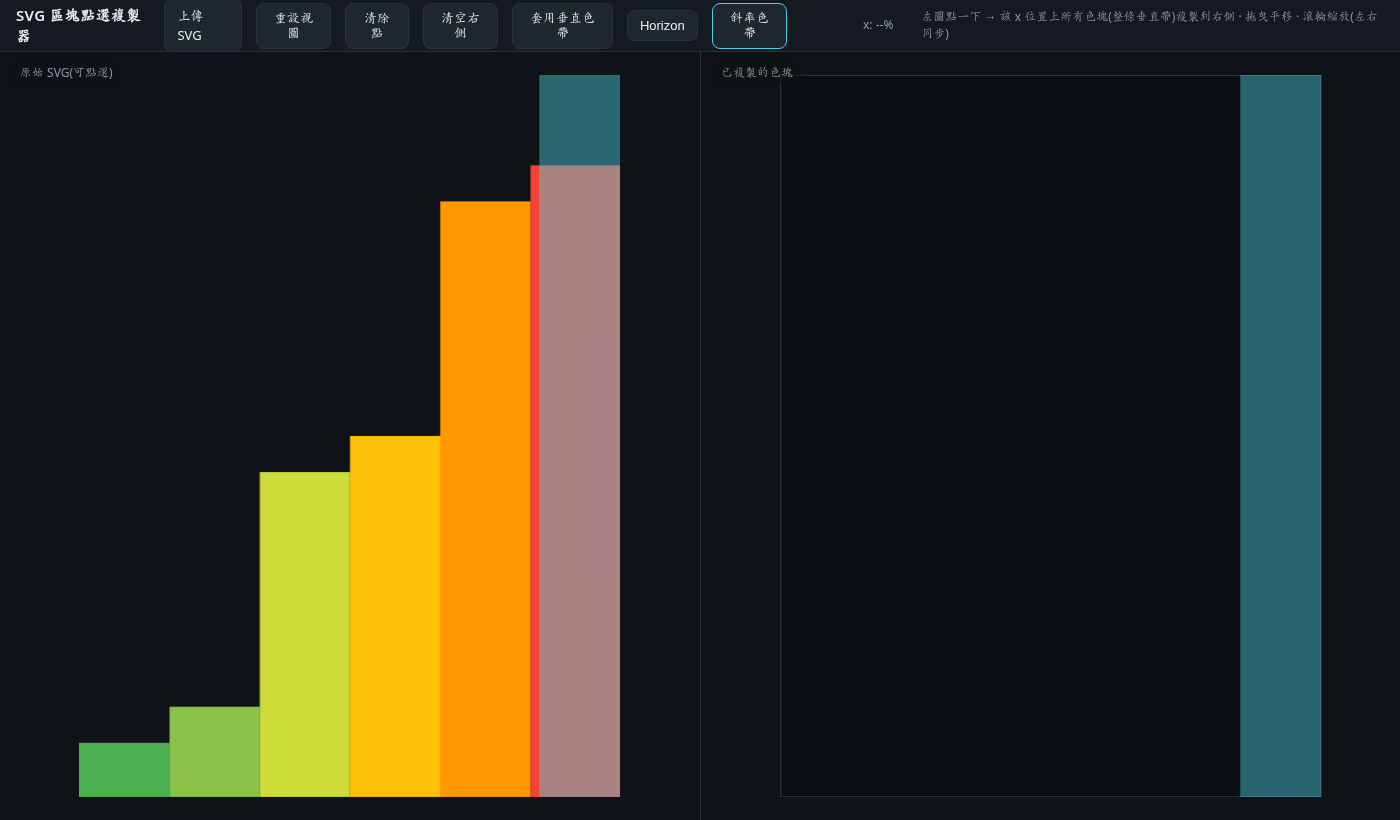
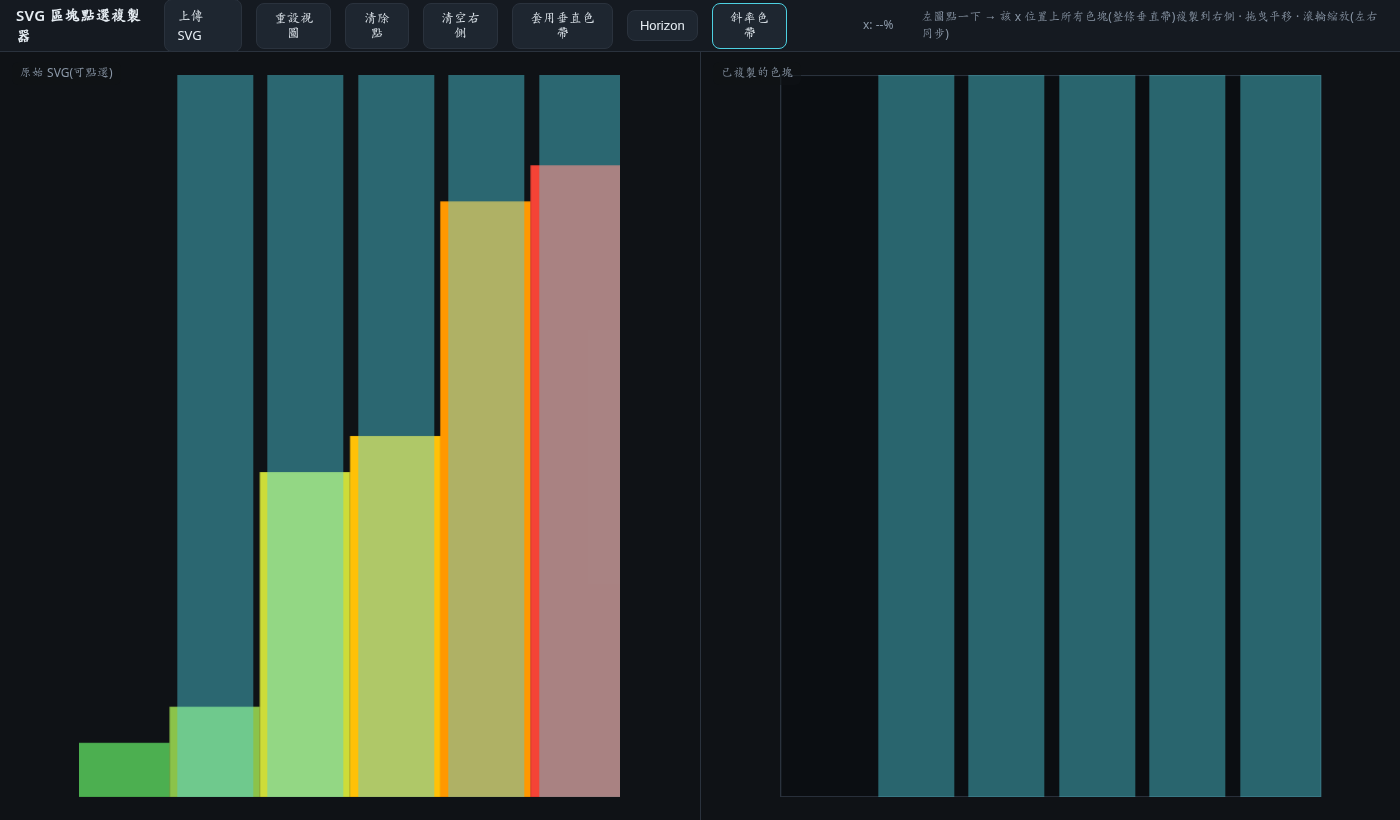
vcp: highlight every upper-side plateau, not just the global max
flatHighlights returns ALL plateaus that sit on the higher side of a
flat–flat 90° step (any flat with a lower flat neighbour), instead of
reducing to the single highest. A staircase now lights every plateau
except the lowest; a lone flat–flat step still yields one highlight.

diff --git a/vcp/horizon-slope-step-heights.puppeteer.test.js b/vcp/horizon-slope-step-heights.puppeteer.test.js
@@ -76,19 +76,18 @@ async function main() {
     }, TOPS, BLOCK);
     assert.deepEqual(staircaseSegments, [], "every vertical step is a discontinuity — 20px and 130px alike — so nothing is sloped");
 
-    // the highlight picks the tallest plateau (top=50), walking up the ascending
-    // flat–flat steps regardless of their heights.
-    const highlight = await page.evaluate((tops, block) => {
+    // every plateau that is the higher side of an ascending flat–flat step is
+    // highlighted (not just the global tallest) — i.e. all blocks except the
+    // single lowest (top=370).
+    const highlights = await page.evaluate((tops, block) => {
       const points = [];
       tops.forEach(top => { for (let k = 0; k < block; k++) points.push({ x: points.length, y: top }); });
       const { regions } = horizonRegions(points, { window: 4, flatEps: 0.1, jumpMax: 6 });
-      const hl = highestFlatHighlight(regions);
-      return hl ? { y: hl.y, startIndex: hl.startIndex } : null;
+      return flatHighlights(regions).map(h => h.y).sort((a, b) => a - b);
     }, TOPS, BLOCK);
-    assert.ok(highlight && highlight.y === 50, "the tallest plateau (top=50) is the highlight");
-    assert.ok(highlight.startIndex >= 250 && highlight.startIndex < 300, "the highlight is the rightmost/top block (cols 250–300)");
+    assert.deepEqual(highlights, [50, 70, 200, 220, 350], "every plateau above the lowest is highlighted, not only the tallest");
 
-    // ---- 2. live DOM: steps give no slope bands, only the tallest plateau -----
+    // ---- 2. live DOM: steps give no slope bands; all-but-lowest plateaus lit --
     await page.evaluate(markup => loadSvgText(markup), stairSvg);
     await page.click("#slopeband");
     await page.waitForFunction(() => document.querySelector("#lbands").childElementCount > 0);
@@ -96,9 +95,11 @@ async function main() {
       slope: document.querySelectorAll("#lbands > div.slope").length,
       flat: [...document.querySelectorAll("#lbands > div.flat")].map(d => ({ left: parseFloat(d.style.left), width: parseFloat(d.style.width) }))
     }));
+    const litStair = pct => stair.flat.some(b => pct >= b.left && pct <= b.left + b.width);
     assert.equal(stair.slope, 0, "a staircase of five 90° steps produces no slope bands");
-    assert.equal(stair.flat.length, 1, "only the tallest plateau is highlighted");
-    assert.ok(stair.flat[0].left > 80 && stair.flat[0].left < 86, "the highlight sits on the tallest block (~83%)");
+    assert.equal(stair.flat.length, 5, "all plateaus except the lowest are highlighted");
+    assert.ok(!litStair((25 / 300) * 100), "the lowest block (~8%) is not highlighted");
+    assert.ok(litStair((275 / 300) * 100), "the tallest block (~92%) is highlighted");
 
     // ---- 3. the classifier still marks a real slope -------------------------
     await page.evaluate(markup => loadSvgText(markup), rampSvg);

diff --git a/vcp/index.html b/vcp/index.html
@@ -227,19 +227,18 @@ function horizonRegions(points, options = {}) {
   }
   return { regions, last };
 }
-/* The single highest plateau that sits on the upper side of a flat–flat 90°
-   step. Two plateaus adjacent in the region list are separated only by a
-   step/gap, so a LOWER flat neighbour (larger screen-y) means this plateau is
-   the taller side of a step. "Highest" = topmost skyline = smallest screen-y
-   (y grows downward). Flip the comparisons to pick the lowest instead. */
-function highestFlatHighlight(regions) {
-  const candidates = regions.filter((r, i) => {
+/* Every plateau that sits on the upper (higher) side of a flat–flat 90° step.
+   Two plateaus adjacent in the region list are separated only by a step/gap, so
+   a LOWER flat neighbour (larger screen-y) means this plateau is the taller side
+   of a step. Higher = topmost skyline = smaller screen-y (y grows downward);
+   flip the comparison to pick lower sides instead. Returns ALL such plateaus,
+   not just the global highest. */
+function flatHighlights(regions) {
+  return regions.filter((r, i) => {
     if (r.type !== "flat") return false;
     const neighbours = [regions[i - 1], regions[i + 1]].filter(nb => nb && nb.type === "flat");
     return neighbours.some(nb => nb.y > r.y);       // a lower flat across the step ⇒ r is the higher side
   });
-  if (!candidates.length) return null;
-  return candidates.reduce((best, r) => (r.y < best.y ? r : best));
 }
 function bandColor(i) {
   const hue = (i * 137.508) % 360;                  // golden angle → distinct hues for any count
@@ -257,11 +256,11 @@ function addBand(seg, bg, kind) {                   // kind: "slope" (gridded) |
     hostEl.appendChild(div);
   }
 }
-function renderRegions(slopes, highlight) {
+function renderRegions(slopes, highlights) {
   clearBands();
   slopes.forEach((seg, i) => addBand(seg, bandColor(i), "slope"));
-  if (highlight) addBand(highlight, FLAT_HIGHLIGHT_COLOR, "flat");
-  return slopes.length + (highlight ? 1 : 0);
+  highlights.forEach(seg => addBand(seg, FLAT_HIGHLIGHT_COLOR, "flat"));
+  return slopes.length + highlights.length;
 }
 
 /* ---- horizon: first filled y (skyline) for every sampled x ---- */
@@ -626,8 +625,8 @@ $("slopeband").onclick = async () => {
     const { points } = await horizonSamples();
     const { regions } = horizonRegions(points);
     const slopes = regions.filter(r => r.type === "slope");
-    const highlight = highestFlatHighlight(regions);
-    const count = renderRegions(slopes, highlight);
+    const highlights = flatHighlights(regions);
+    const count = renderRegions(slopes, highlights);
     if (!count) Swal.fire("找不到斜率區段或可標示的平台");
   } catch (error) {
     console.error(error);

diff --git a/vcp/horizon-slope.puppeteer.test.js b/vcp/horizon-slope.puppeteer.test.js
@@ -113,7 +113,7 @@ async function main() {
     assert.ok(bands.left.every(b => b.left >= 0 && b.left + b.width <= 100.0001), "bands stay within 0~100%");
     assert.ok(bands.left.every(b => b.width > 0), "every band has a positive width");
     assert.ok(bands.left.every(b => /rgba?\(|hsla?\(/.test(b.bg)), "every band is painted");
-    assert.ok(bands.flat.length <= 1, "at most one plateau is highlighted");
+    assert.ok(bands.flat.every(b => b.left >= 0 && b.left + b.width <= 100.0001 && b.width > 0), "plateau highlights are valid bands");
     const lefts = bands.left.map(b => b.left);
     assert.deepEqual(lefts, [...lefts].sort((a, b) => a - b), "bands are laid out left→right");
 
